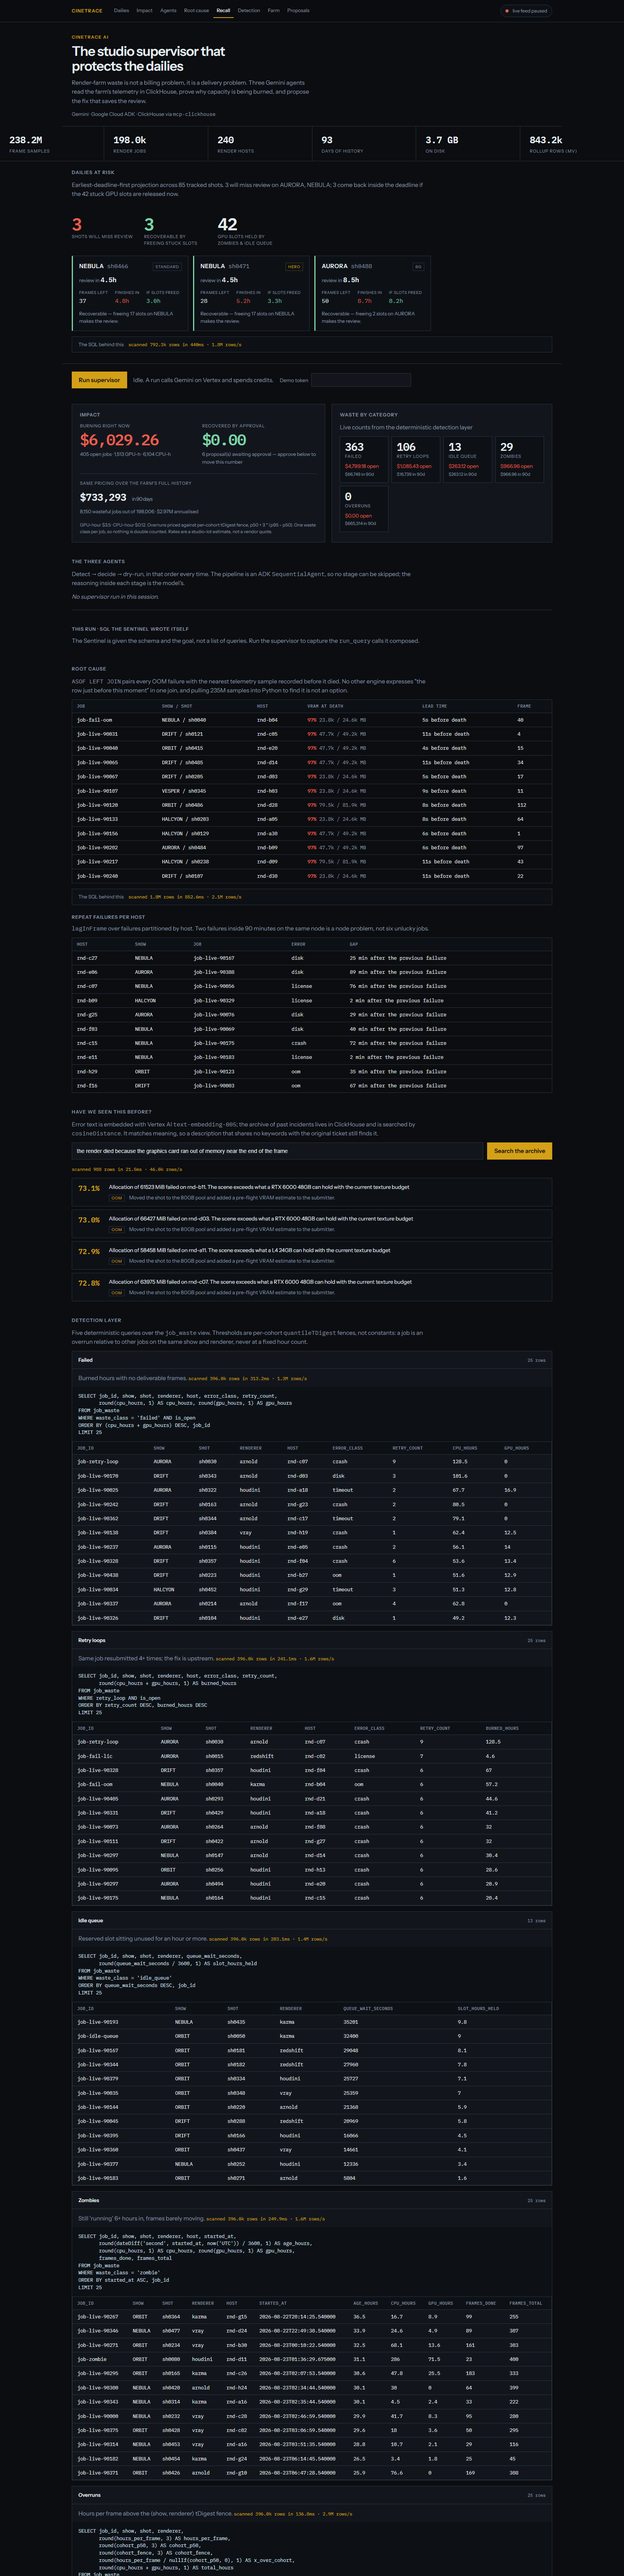
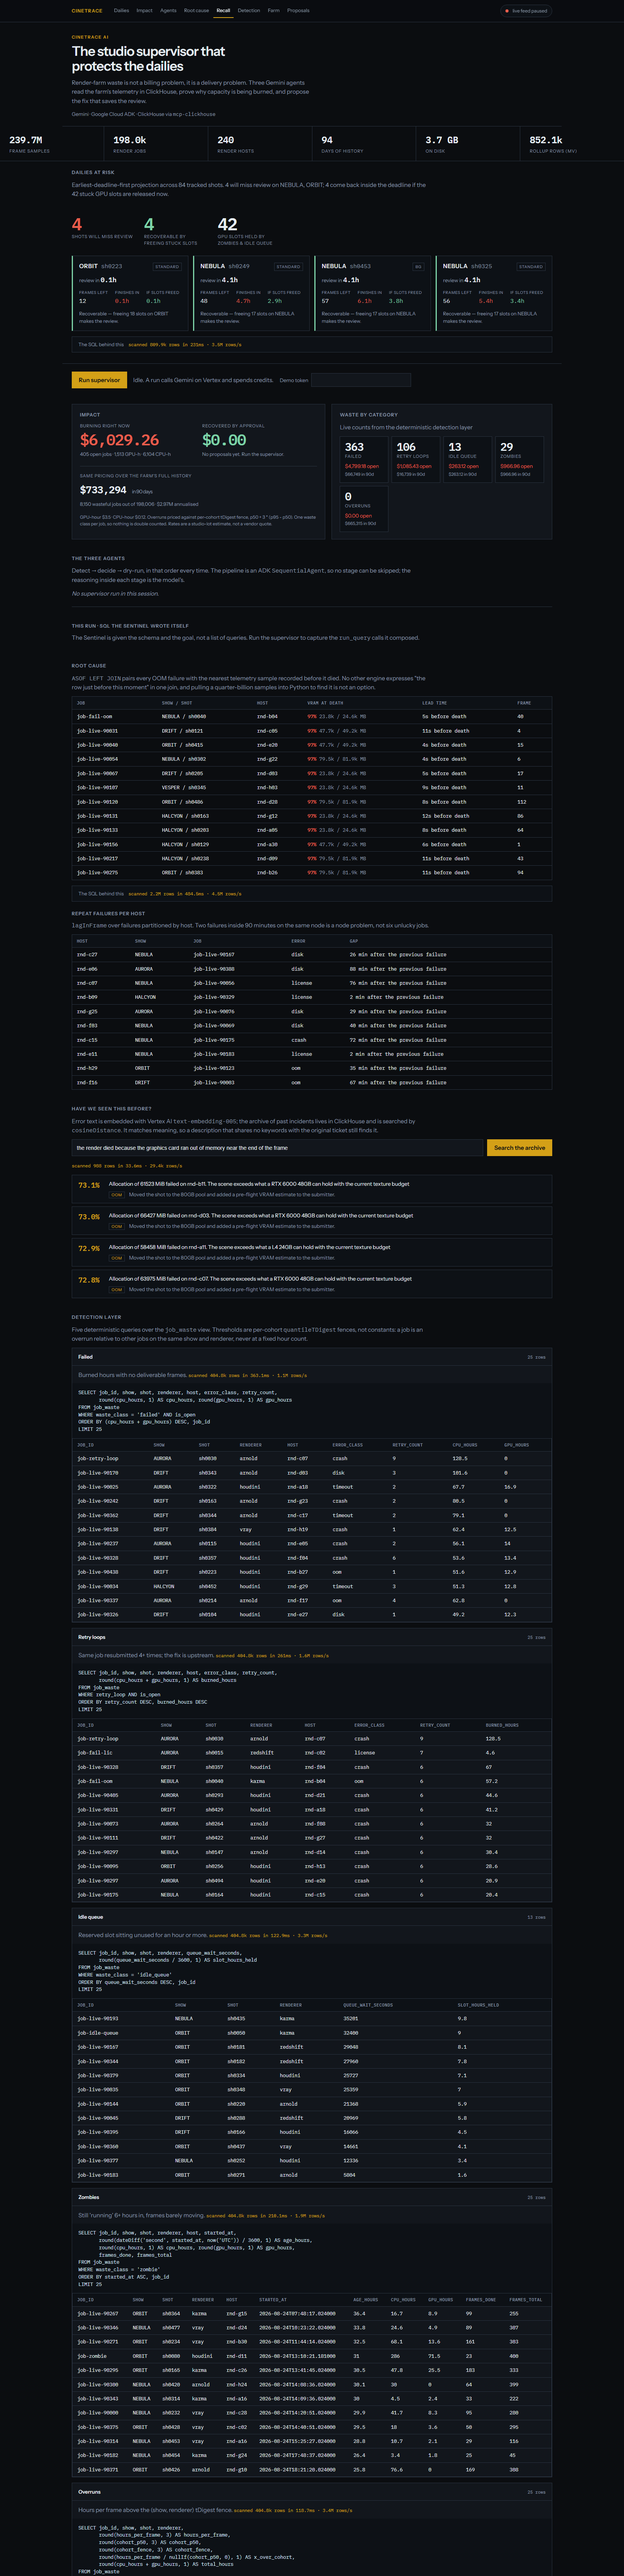
Say a quarter-billion rows, because 235M stopped being true.
The ticker adds about a million samples a day, so every hardcoded 235M/802k/3.6GB figure was drifting away from what the live page reports. Phrase the recurring claims against the TTL plateau instead, correct the tables to current values, and drop the cherry-picked 114ms in favour of the row count the page prints on every load.

diff --git a/src/cinetrace/web/templates/index.html b/src/cinetrace/web/templates/index.html
@@ -4,7 +4,7 @@
   <meta charset="utf-8" />
   <meta name="viewport" content="width=device-width, initial-scale=1" />
   <title>CineTrace AI — protect the dailies</title>
-  <meta name="description" content="Autonomous VFX studio supervisor. Three Gemini agents on Google Cloud ADK read 235M rows of render-farm telemetry in ClickHouse to stop compute waste before it costs a review." />
+  <meta name="description" content="Autonomous VFX studio supervisor. Three Gemini agents on Google Cloud ADK read a quarter-billion rows of render-farm telemetry in ClickHouse to stop compute waste before it costs a review." />
   <link rel="preconnect" href="https://fonts.googleapis.com" />
   <link rel="preconnect" href="https://fonts.gstatic.com" crossorigin />
   <link href="https://fonts.googleapis.com/css2?family=IBM+Plex+Mono:wght@400;500;600&family=Instrument+Sans:wght@400;500;600;700&display=swap" rel="stylesheet" />
@@ -157,8 +157,8 @@
     <p class="panel-lead">
       <code>ASOF LEFT JOIN</code> pairs every OOM failure with the nearest telemetry
       sample recorded before it died. No other engine expresses "the row just before
-      this moment" in one join, and pulling 235M samples into Python to find it is not
-      an option.
+      this moment" in one join, and pulling a quarter-billion samples into Python to
+      find it is not an option.
     </p>
     <div class="table-wrap">
       <table>
@@ -231,8 +231,8 @@
     <h2>Farm activity</h2>
     <p class="panel-lead">
       Served from <code>farm_minute</code>, an <code>AggregatingMergeTree</code> kept
-      current by a materialized view. The 235M-row fact table is never touched by this
-      chart. <span class="stat-badge" id="timeline-stats"></span>
+      current by a materialized view. The quarter-billion-row fact table is never
+      touched by this chart. <span class="stat-badge" id="timeline-stats"></span>
     </p>
     <div class="farm-spark" id="farm-spark" aria-hidden="true"></div>
     <div class="table-wrap">

diff --git a/src/cinetrace/web/static/app.js b/src/cinetrace/web/static/app.js
@@ -2,8 +2,8 @@
 
 // Supervisor page. Every panel renders straight from a ClickHouse query and
 // carries the cost of that query, because on this track the interesting claim
-// is not "we have a dashboard" but "this scanned 235M rows and came back in
-// under a second".
+// is not "we have a dashboard" but "this scanned a quarter-billion rows and came
+// back in under a second".
 
 const $ = (id) => document.getElementById(id);
 
@@ -636,7 +636,7 @@ async function runSupervisor() {
   $("mcp-note").textContent = "The Sentinel is composing SQL now.";
   setStepper("detect");
   $("status").textContent =
-    "Detecting… the Sentinel is writing its own SQL against 235M telemetry rows.";
+    "Detecting… the Sentinel is writing its own SQL against a quarter-billion telemetry rows.";
   startElapsed();
   $("agents").scrollIntoView({ behavior: "smooth", block: "start" });
 

diff --git a/docs/devpost.md b/docs/devpost.md
@@ -36,9 +36,9 @@ agents on Google Cloud ADK run a fixed detect → decide → act pipeline:
   queries. It composes its own SQL through the official `mcp-clickhouse` server
   — typically 14 to 16 `run_query` calls per run — starting broad and drilling
   into whatever looks worst. When it finds an OOM failure it runs an
-  `ASOF LEFT JOIN` against 235 million telemetry samples to find the last
-  reading before the job died, and reports things like *"job-live-90003 died 20
-  seconds after host rnd-f16 hit 97% VRAM."*
+  `ASOF LEFT JOIN` against a quarter-billion telemetry samples to find the
+  last reading before the job died, and reports things like *"job-live-90003
+  died 20 seconds after host rnd-f16 hit 97% VRAM."*
 - The **Studio Orchestrator** weighs those findings against the dailies
   schedule. Waste that threatens a client review outranks waste that only costs
   money, so a zombie on a show with a review in five hours beats a bigger
@@ -53,7 +53,9 @@ waste does not reduce your bill, a supervisor approving the fix does.
 The farm is live while you watch it: a background ticker writes fresh telemetry
 every 30 seconds and the page streams updates over SSE.
 
-**Scale:** 235M frame samples, 198k render jobs, 240 hosts, 90 days, 3.6 GB.
+**Scale:** 240M frame samples, 198k render jobs, 240 hosts, 94 days, 3.7 GB.
+The ticker keeps writing, so the live page reads higher every day until the
+100-day TTL parks it around a quarter of a billion rows.
 
 ## How we built it
 
@@ -79,7 +81,8 @@ The schema leans on things that are ClickHouse-specific rather than incidental:
   with a **projection** on `(host, ts)` so the ASOF root-cause join can seek by
   host, plus `set` and `minmax` skip indexes and a 100-day TTL.
 - A **materialized view** aggregates into an `AggregatingMergeTree` on insert,
-  so the dashboard reads 802k pre-computed rows instead of 235M raw ones.
+  so the dashboard reads about 850k pre-computed rows instead of a
+  quarter-billion raw ones.
 - **`quantileTDigest`** builds per-(show, renderer) baselines. The old rule was
   `cpu_hours >= 100`, which is meaningless across renderers whose costs differ
   by 10x; now a job is an overrun when it crosses a robust upper fence,
@@ -100,15 +103,16 @@ rebuilds identically and the numbers in the video match the numbers in the repo.
 **The first version did not need ClickHouse.** It ran on 62 rows. Every query
 would have produced identical output on SQLite, which is a strange thing to
 submit to a ClickHouse track. Fixing that meant rebuilding the data model around
-a frame-level fact table instead of a job-level one — 235M rows instead of 62 —
-and rewriting the impact calculation, which had been summing in a Python loop
-over every job. That does not survive 198k rows.
+a frame-level fact table instead of a job-level one — hundreds of millions of
+rows instead of 62 — and rewriting the impact calculation, which had been
+summing in a Python loop over every job. That does not survive 198k rows.
 
 **Scale exposes lazy SQL immediately.** The first ASOF join had no bound on its
-right side, so ClickHouse tried to materialise all 235M samples and hit the 7.2
-GiB memory ceiling. Bounding both sides — the failure window and the handful of
-hosts actually involved — took it to 2.2M rows in 114ms. Similar story with
-alias shadowing: `sum(waste_cpu_hours) AS waste_cpu_hours` is fine alone but
+right side, so ClickHouse tried to materialise the whole fact table and hit the
+7.2 GiB memory ceiling. Bounding both sides — the failure window and the handful
+of hosts actually involved — takes it to 2.2M rows, and the page prints that
+count on every load so you can check us. Similar story with alias shadowing:
+`sum(waste_cpu_hours) AS waste_cpu_hours` is fine alone but
 makes any other aggregate reading that column fail with "aggregate function
 inside another aggregate function".
 
@@ -141,8 +145,9 @@ joins it chose to use, and none of it is hardcoded in the repo. That is the
 difference between an agent and a prompt with queries pasted in.
 
 The root-cause line. *"This job died 20 seconds after the host hit 97% VRAM"* is
-a sentence a render wrangler would write, produced by a single join over 235
-million rows in 114 milliseconds.
+a sentence a render wrangler would write, produced by a single ASOF join that
+reads 2.2M rows out of a quarter-billion — the bounds and the `(host, ts)`
+projection do that work, not a bigger cluster.
 
 The honesty of the numbers. The page distinguishes waste you can still act on
 from waste that already happened, refuses to credit a saving until a human
@@ -173,10 +178,10 @@ right constant was.
 fixation with prompt wording first. It half-worked. Fixing the definition of
 "actionable" fixed it completely and permanently, for every future prompt.
 
-**Watch what the model does with a 235M-row table.** The Sentinel bounds its
-`frame_samples` queries by job id and time range because the schema brief tells
-it to, in the same paragraph that tells it how big the table is. Without that,
-an agent will happily write the query that takes the cluster down.
+**Watch what the model does with a quarter-billion-row table.** The Sentinel
+bounds its `frame_samples` queries by job id and time range because the schema
+brief tells it to, in the same paragraph that tells it how big the table is.
+Without that, an agent will happily write the query that takes the cluster down.
 
 ## What's next for CineTrace AI
 
@@ -203,11 +208,11 @@ below; the thumbnail should be the first one.
 
 | File | Caption |
 | --- | --- |
-| `01-dailies-at-risk.png` | The headline is delivery, not cost: 3 shots will miss review, and all 3 come back if the 42 GPU slots held by zombie and idle-queue jobs are released. 238M telemetry rows behind it. |
+| `01-dailies-at-risk.png` | The headline is delivery, not cost: 3 shots will miss review, and all 3 come back if the 42 GPU slots held by zombie and idle-queue jobs are released. 239.7M telemetry rows behind it. |
 | `02-impact-and-waste.png` | Open waste is what an agent can still change. The 90-day figure sizes the problem. Approval, not detection, moves the number. |
 | `03-three-agents.png` | Detect → decide → act as an ADK SequentialAgent, so no stage can be skipped. The Orchestrator ties each job to the review it protects. |
 | `04-mcp-evidence.png` | SQL the Sentinel composed itself, through the official mcp-clickhouse server. None of these statements exist in the repo. |
-| `05-root-cause-asof.png` | ASOF LEFT JOIN: the last telemetry sample before each OOM death. 2.2M rows in 114ms. VRAM at 97% is the smoking gun. |
+| `05-root-cause-asof.png` | ASOF LEFT JOIN: the last telemetry sample before each OOM death. Bounds and a (host, ts) projection keep it to 2.2M rows out of a quarter-billion. VRAM at 97% is the smoking gun. |
 | `06-semantic-recall.png` | Vertex AI embeddings, cosineDistance in ClickHouse. Describe a failure in plain language and the archive returns the fix that worked. |
 | `07-detection-sql.png` | Every panel shows its own SQL and what the query cost. Thresholds are per-cohort tDigest fences, not constants. |
 | `08-proposals-approval.png` | Dry-run and append-only. Nothing reaches a render host until a human approves it, and only then does the saving count. |

diff --git a/README.md b/README.md
@@ -6,10 +6,10 @@ Render-farm waste is usually sold as a billing problem. It isn't. When a zombie
 job pins eight GPUs overnight, the cost is not the $28 of compute — it is the
 three shots that miss the 9am client review and the overtime that follows.
 
-CineTrace AI watches 235 million rows of render-farm telemetry in ClickHouse,
-proves *why* capacity is being burned, and proposes the fix that saves the
-review. Three Gemini agents on Google Cloud ADK, querying ClickHouse through the
-official `mcp-clickhouse` server.
+CineTrace AI watches a quarter-billion rows of render-farm telemetry in
+ClickHouse, proves *why* capacity is being burned, and proposes the fix that
+saves the review. Three Gemini agents on Google Cloud ADK, querying ClickHouse
+through the official `mcp-clickhouse` server.
 
 - **Live supervisor:** https://cinetrace-781071502822.us-central1.run.app
 - **Demo video:** https://vimeo.com/1220287055
@@ -26,11 +26,13 @@ This is not a fixture. The demo runs against a synthetic but studio-scale farm:
 
 | | |
 | --- | --- |
-| `frame_samples` | **235M rows** — one telemetry sample per job every 12s of wall time |
+| `frame_samples` | **240M rows** — one telemetry sample per job every 12s of wall time, capped by a 100-day TTL at roughly a quarter-billion |
 | `render_jobs` | **198k jobs** across 90 days, 6 shows, 240 render hosts |
-| `farm_minute` | **802k rows** — incremental rollup kept current by a materialized view |
+| `farm_minute` | **850k rows** — incremental rollup kept current by a materialized view |
 | `error_embeddings` | 494 past incidents with Vertex AI embeddings |
-| On disk | 3.6 GB |
+| On disk | 3.7 GB |
+
+The live ticker keeps writing, so these grow a little every day.
 
 It is generated inside ClickHouse (`INSERT ... SELECT ... FROM numbers_mt`), so
 a full rebuild takes about twenty minutes and is reproducible byte for byte.
@@ -40,7 +42,7 @@ a full rebuild takes about twenty minutes and is reproducible byte for byte.
 ```mermaid
 flowchart TB
     subgraph ch [ClickHouse Cloud]
-        FS[("frame_samples · 235M rows")]
+        FS[("frame_samples · 240M rows")]
         RJ[("render_jobs · 198k")]
         SH[("shots · delivery deadlines")]
         MV[["farm_minute · AggregatingMergeTree"]]
@@ -90,11 +92,12 @@ ported to Postgres. This one would not:
 
 - **`ASOF LEFT JOIN`** pairs each OOM failure with the nearest telemetry sample
   recorded *before* it died: *"job-live-90003 died 20 seconds after rnd-f16 hit
-  97% VRAM."* Scans 2.2M rows in ~114ms. No other engine expresses "the row just
-  before this moment" in a single join.
+  97% VRAM."* Bounds and a `(host, ts)` projection keep it to 2.2M rows out of a
+  quarter-billion. No other engine expresses "the row just before this moment"
+  in a single join.
 - **Materialized view into `AggregatingMergeTree`** keeps a per-minute rollup
-  current on insert, so the dashboard reads 802k pre-aggregated rows instead of
-  235M raw ones.
+  current on insert, so the dashboard reads 850k pre-aggregated rows instead of
+  a quarter-billion raw ones.
 - **`quantileTDigest` cohort baselines** replaced the old `cpu_hours >= 100`
   rule. An arnold CPU job legitimately burns 10x the hours of a redshift GPU job
   for the same shot, so "overrun" is defined as crossing a robust upper fence,
@@ -104,8 +107,8 @@ ported to Postgres. This one would not:
 - **Vector search** with `cosineDistance` over Vertex AI embeddings: describe a
   failure in plain language and the archive returns the incident that matches by
   *meaning*, with the fix that closed it.
-- **Projections, skip indexes, TTL** on the fact table, because 235M rows with a
-  live writer needs a retention story.
+- **Projections, skip indexes, TTL** on the fact table, because a quarter-billion
+  rows with a live writer needs a retention story.
 
 Every panel on the page reports what its query cost: rows scanned, milliseconds,
 rows per second.
@@ -146,7 +149,7 @@ cp .env.example .env          # fill CLICKHOUSE_HOST and CLICKHOUSE_PASSWORD
 uv sync --extra dev
 
 uv run python -m cinetrace.clickhouse.apply       # schema, in filename order
-uv run python -m cinetrace.clickhouse.generate    # ~20 min, builds 235M rows
+uv run python -m cinetrace.clickhouse.generate    # ~20 min, builds ~235M rows
 uv run python -m cinetrace.clickhouse.embeddings  # embeds the incident archive
 uv run python -m cinetrace.clickhouse.health
 

diff --git a/docs/demo/shot-list.md b/docs/demo/shot-list.md
@@ -36,8 +36,8 @@ held by zombie and idle-queue jobs.
 
 Pan across the scale strip. Point at the live pill counting up.
 
-> "This is 235 million rows of frame-level telemetry in ClickHouse. 198,000 jobs
-> over 90 days, and it's still being written to while we watch."
+> "This is a quarter of a billion rows of frame-level telemetry in ClickHouse.
+> 198,000 jobs, 240 hosts, and it's still being written to while we watch."
 
 **0:35–1:05 — The agents, and the SQL they write live**
 
@@ -46,8 +46,8 @@ SQL list are the shot — do not cut away to a spinner.
 
 > "Three Gemini agents on Google Cloud ADK. The Sentinel isn't given queries —
 > it's given the schema and a goal, and it writes its own SQL through the
-> official ClickHouse MCP server. You're watching it compose those against
-> 235 million rows, live. None of them are in our repo."
+> official ClickHouse MCP server. You're watching it compose those against a
+> quarter of a billion rows, live. None of them are in our repo."
 
 **1:05–1:30 — Root cause. The best thirty seconds.**
 
@@ -55,8 +55,9 @@ Scroll to Root cause. Land on the 97% VRAM row. Open the SQL drawer.
 
 > "When it finds an out-of-memory failure it runs an ASOF join — the last
 > telemetry sample before the job died. This one died twenty seconds after the
-> host hit 97% VRAM. That's 2.2 million rows in 114 milliseconds. You cannot ask
-> a database 'the row just before this moment' in one join anywhere else."
+> host hit 97% VRAM. Two point two million rows touched out of a quarter of a
+> billion, and the panel tells you exactly what it cost. You cannot ask a
+> database 'the row just before this moment' in one join anywhere else."
 
 **1:30–1:50 — Institutional memory**
 
